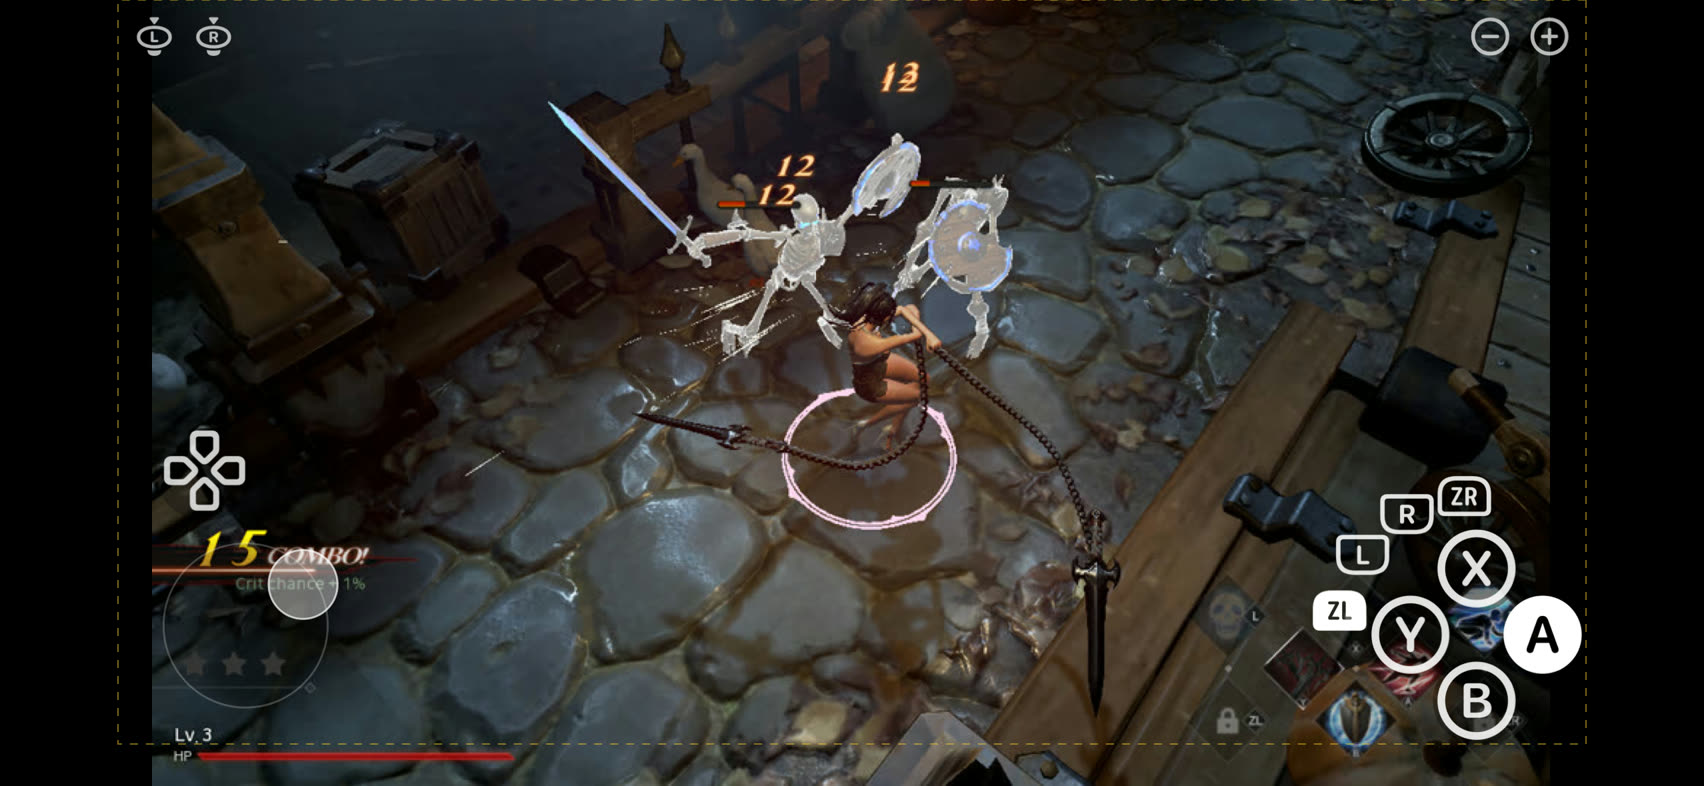
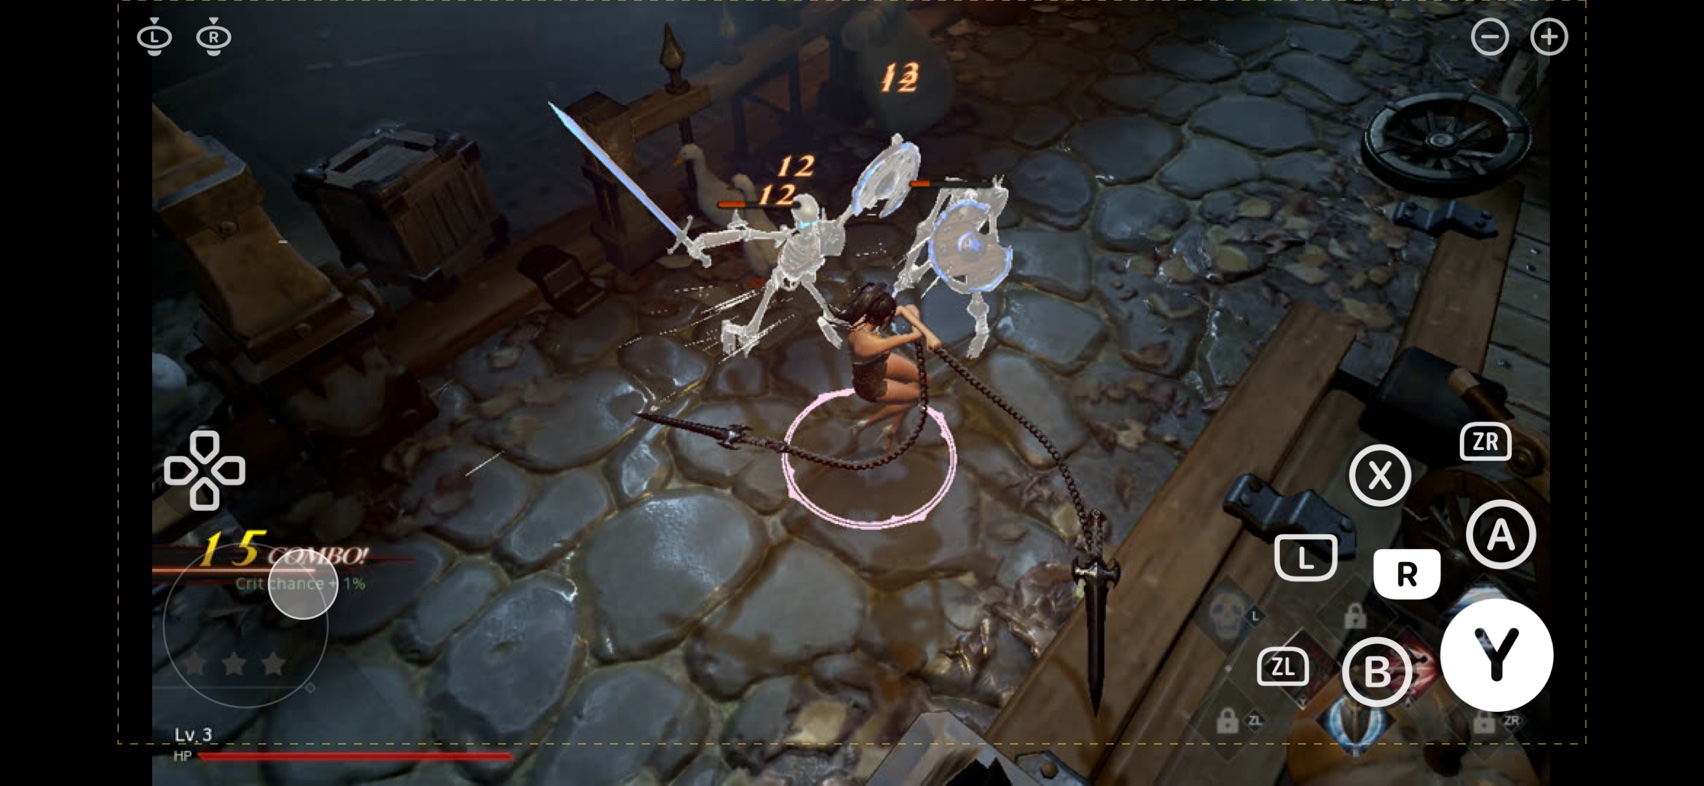
虚拟手柄图层第 3 稿：按真机确认的用法改成手游扇形布局
Y 普攻大键贴右下角（直径 66 点），B 格挡 / R 闪避 / A 技能内扇，L 终结技 / X 外扇，ZL ZR 最小在两端；
键间留 ≥ 0.3r 的真实间隙、命中圈不重叠（第 2 稿菱形相邻键边缘只差 1 点）。效果图工具打印每键与最近邻的边缘 / 命中圈间隙。
docs/ios_pad.md 与 README 同步更新，效果图重出。iOS 未签名包编译通过。

Claude-Session: https://claude.ai/code/session_01DDDgrjNGDwfa5NRsJqi9pz

Changed region(s): [[0.7154, 0.5191, 0.9331, 0.9466]]

diff --git a/dm/ios/blade/Sources/pad_layout.h b/dm/ios/blade/Sources/pad_layout.h
@@ -5,13 +5,14 @@
 // 没有图标时退回画字。坐标系：原点左上、y 向下（UIKit drawRect 的上下文即如此；效果图工具自己翻转位图上下文）。
 //
 // 布局依据（BladeII/Config/DefaultInput.ini）：游戏把全部手柄键都映射成动作（面键 4、肩键 L/R、扳机 ZL/ZR、十字键 4、＋ −、L3 R3），
-// 左摇杆走移动轴（死区 0.25），右摇杆只在背包里旋转角色（InvenRotateMove）。战斗 HUD 右下角 4 个技能格的键提示是 L / ZL / R / ZR，所以：
-//   · 右下：A/B/X/Y 菱形（Switch 排法：X 上 Y 左 A 右 B 下；主攻击 / 闪避区，最大）；外圈 4 个技能键按 ZL L R ZR 从左到上排成弧，都在右手拇指转动半径内；
+// 左摇杆走移动轴（死区 0.25），右摇杆只在背包里旋转角色（InvenRotateMove）。战斗 HUD 右下 7 个格的键提示：上排 L / X / R，下排 ZL / Y / A / B / ZR，
+// 实际用法（作者真机确认）：Y 普攻（最常用）、B 格挡（第二常用，精确防御后反击）、A 技能、L 终结技、R 闪避，ZL ZR 基本不用。所以按手游的做法：
+//   · 右下：Y 一个普攻大键贴角；其余键按频率呈扇形围着它——内扇 B R A、外扇 L X 中段、ZL ZR 两端最小；键与键之间留实打实的间隙（≥ 0.3r ≈ 7 点），命中圈互不重叠；
 //   · 左半屏：浮动左摇杆（落点为中心），空闲时左下只画一个淡的摇杆图标提示；十字键一个图标放左侧中部、摇杆区之上；
 //   · 顶边：左上 L3 R3（极少用，最小最淡），右上 − ＋；
 //   · 右半屏空处 = 右摇杆（只有背包用，不画空闲提示）。
-// 画面是 16:9 居中留黑边（nvn_mtl.m 的出图视口），iPhone 19.5:9 两侧各有约 H×0.09 的黑柱，摇杆提示与菱形的外沿落在黑柱里，少盖 HUD。
-// 尺寸以窗口高为基准：r = H×0.058（夹在 17–32 点，DM_PAD_SCALE 再乘），iPhone 横屏 393 点高 → 面键直径 46 点（≥ 44 点可点最小值），技能键 33 点。
+// 画面是 16:9 居中留黑边（nvn_mtl.m 的出图视口），iPhone 19.5:9 两侧各有约 H×0.09 的黑柱，摇杆提示与右手簇的外沿落在黑柱里，少盖 HUD。
+// 尺寸以窗口高为基准：r = H×0.058（夹在 17–32 点，DM_PAD_SCALE 再乘），iPhone 横屏 393 点高 → Y 直径 66 点、B R A 41 点（命中 50 点）、L 39 点、X 36 点、ZL ZR 32 点。
 //
 // Touch gamepad layer for Blade II: geometry (where, how big, hit testing) and drawing (CoreGraphics), plain C with no UIKit dependency,
 // so the iOS shell (overlay in front_blade.m) and the Mac mock-up tool (tools/pad_mockup.m) share one copy -- what the mock-up shows is what the device draws.
@@ -21,12 +22,13 @@
 //
 // Layout rationale (BladeII/Config/DefaultInput.ini): the game maps every controller button to an action (4 face, L/R, ZL/ZR, 4 d-pad, + -, L3 R3),
 // the left stick drives the move axes (dead zone 0.25) and the right stick is only used to rotate the character in the inventory (InvenRotateMove).
-// The combat HUD's four skill slots bottom right are labelled L / ZL / R / ZR, hence:
-//   - bottom right: A/B/X/Y diamond (Switch order: X top, Y left, A right, B bottom; attack / dodge, largest); an outer arc of the 4 skill keys ZL L R ZR from left to top;
+// The combat HUD's seven slots bottom right are labelled L / X / R (top row) and ZL / Y / A / B / ZR (bottom row): Y is the whip strike (primary attack), A the dash (dodge),
+// Actual use (confirmed by the author on hardware): Y basic attack (most used), B block (second, perfect guard then counter), A skill, L finisher, R dodge, ZL ZR hardly ever. Hence, the mobile-game way:
+//   - bottom right: one big basic-attack key Y in the corner; the rest fanned around it by frequency -- inner fan B R A, outer fan L X mid-arc, ZL ZR smallest at the ends; real gaps between keys (>= 0.3r ~ 7 pt), hit circles never overlap;
 //   - left half: floating left stick (landing point = centre), idle = one faint joystick glyph bottom left; one d-pad glyph mid-left above the stick zone;
 //   - top edge: L3 R3 top left (rarely used, smallest and faintest), - + top right;
 //   - free space in the right half = right stick (inventory only, no idle hint).
-// Sizes are relative to the window height: r = H*0.058 (clamped 17-32 pt, times DM_PAD_SCALE); 393 pt landscape iPhone -> 46 pt face buttons (>= 44 pt minimum), 33 pt skill keys.
+// Sizes are relative to the window height: r = H*0.058 (clamped 17-32 pt, times DM_PAD_SCALE); 393 pt landscape iPhone -> Y 66 pt, B R A 41 pt (50 pt hit), L 39 pt, X 36 pt, ZL ZR 32 pt.
 #pragma once
 #include <CoreGraphics/CoreGraphics.h>
 #include <CoreText/CoreText.h>
@@ -69,14 +71,24 @@ static inline void pad_layout_make(pad_layout *L, CGSize sz, CGFloat in_top, CGF
     CGFloat H = sz.height, W = sz.width, r = fmin(32, fmax(17, H * 0.058)) * (scale > 0 ? scale : 1);
     CGFloat bot = H - in_bottom, top = in_top, left = in_left, right = W - in_right;
     L->size = sz; L->pic = pad_picture_rect(sz); L->r = r; L->stick_r = 1.8 * r; L->split_x = W * 0.45;
-    // 菱形：中心离右下安全角 2.4r；键距 1.45r；命中 1.1r | diamond: centre 2.4r from the bottom-right safe corner; pitch 1.45r; hit 1.1r
-    CGPoint d = CGPointMake(right - 2.4 * r, bot - 2.4 * r);
-    L->btn[PB_A] = pad_c(d.x + 1.45 * r, d.y, r, 1.1 * r); L->btn[PB_B] = pad_c(d.x, d.y + 1.45 * r, r, 1.1 * r);
-    L->btn[PB_Y] = pad_c(d.x - 1.45 * r, d.y, r, 1.1 * r); L->btn[PB_X] = pad_c(d.x, d.y - 1.45 * r, r, 1.1 * r);
-    // 技能弧：绕菱形中心半径 3.05r，190°→265°（y 向下：190° 偏左略下，265° 正上略右），顺序 ZL L R ZR；键帽半宽 0.72r，命中 0.92r
-    // skill arc: radius 3.05r around the diamond centre, 190 -> 265 degrees (y down), order ZL L R ZR; cap half-width 0.72r, hit 0.92r
-    static const int arc_btn[4] = {PB_ZL, PB_L, PB_R, PB_ZR}; static const double arc_deg[4] = {190, 215, 240, 265};
-    for (int i = 0; i < 4; i++) { double a = arc_deg[i] * M_PI / 180; L->btn[arc_btn[i]] = pad_c(d.x + 3.05 * r * cos(a), d.y + 3.05 * r * sin(a), 0.72 * r, 0.92 * r); }
+    // 右手簇（手游打法：一个主攻击大键，其余按使用频率呈扇形围在它旁边）：
+    //   Y 普攻：半径 1.45r，贴右下安全角（边距 0.5r）；
+    //   内扇 B R A：半径 0.9r，离 Y 中心 D1（与 Y 边缘留 0.3r），172°（正左，拇指平移最顺手）= B 格挡（第二常用）、222°（左上）= R 闪避、272°（正上）= A 技能；
+    //   外扇 ZL L X ZR：离 Y 中心 D2（与内扇边缘留 0.3r），177° = ZL（0.7r，少用）、207° = L 终结技（0.85r）、237° = X（0.8r）、267° = ZR（0.7r，少用）；与内扇错开成蜂窝。
+    //   命中圈 = 画的半径 + 0.2r，相邻命中圈不重叠；pad_hit 取最近者。
+    // right-hand cluster (mobile-game logic: one big primary attack key, the rest fanned around it by frequency of use):
+    //   Y basic attack: radius 1.45r, tucked into the bottom-right safe corner (0.5r margin);
+    //   inner fan B R A: radius 0.9r, D1 from Y's centre (0.3r clear of Y's edge): 172 deg (straight left, the easiest thumb slide) = B block (second most used), 222 deg (up-left) = R dodge, 272 deg (straight up) = A skill;
+    //   outer fan ZL L X ZR: D2 from Y's centre (0.3r clear of the inner fan): 177 deg = ZL (0.7r, rare), 207 deg = L finisher (0.85r), 237 deg = X (0.8r), 267 deg = ZR (0.7r, rare); staggered against the inner fan, honeycomb style.
+    //   hit radius = drawn radius + 0.2r; neighbouring hit circles do not overlap; pad_hit takes the nearest.
+    CGFloat R0 = 1.45 * r, R1 = 0.9 * r, R2 = 0.85 * r, R2x = 0.8 * r, R2s = 0.7 * r, gap = 0.3 * r;
+    CGPoint y0 = CGPointMake(right - (R0 + 0.5 * r), bot - (R0 + 0.5 * r));
+    L->btn[PB_Y] = pad_c(y0.x, y0.y, R0, R0 + 0.1 * r);
+    CGFloat D1 = R0 + gap + R1, D2 = D1 + R1 + gap + R2;
+    static const int in_btn[3] = {PB_B, PB_R, PB_A}; static const double in_deg[3] = {172, 222, 272};
+    for (int i = 0; i < 3; i++) { double a = in_deg[i] * M_PI / 180; L->btn[in_btn[i]] = pad_c(y0.x + D1 * cos(a), y0.y + D1 * sin(a), R1, R1 + 0.15 * r); }
+    static const int out_btn[4] = {PB_ZL, PB_L, PB_X, PB_ZR}; static const double out_deg[4] = {177, 207, 237, 267}; const CGFloat out_rad[4] = {R2s, R2, R2x, R2s};
+    for (int i = 0; i < 4; i++) { double a = out_deg[i] * M_PI / 180; CGFloat rr = out_rad[i]; L->btn[out_btn[i]] = pad_c(y0.x + D2 * cos(a), y0.y + D2 * sin(a), rr, rr + 0.2 * r); }
     // 顶边：右上 − ＋，左上 L3 R3 | top edge: - + top right, L3 R3 top left
     L->btn[PB_PLUS] = pad_c(right - 0.8 * r, top + 0.8 * r, 0.5 * r, 0.75 * r); L->btn[PB_MINUS] = pad_c(right - 2.1 * r, top + 0.8 * r, 0.5 * r, 0.75 * r);
     L->btn[PB_LS] = pad_c(left + 0.8 * r, top + 0.8 * r, 0.5 * r, 0.75 * r); L->btn[PB_RS] = pad_c(left + 2.1 * r, top + 0.8 * r, 0.5 * r, 0.75 * r);

diff --git a/tools/pad_mockup.m b/tools/pad_mockup.m
@@ -55,7 +55,10 @@ int main(int argc, char **argv) {
         NSBitmapImageRep *rep = [[NSBitmapImageRep alloc] initWithCGImage:out]; NSData *png = [rep representationUsingType:NSBitmapImageFileTypePNG properties:@{}];
         if (![png writeToFile:@(argv[2]) atomically:YES]) { fprintf(stderr, "写不了 %s\n", argv[2]); return 1; }
         printf("%s：%zux%zu 像素，基准半径 %.1f 点，画面 %.0f,%.0f %.0fx%.0f，摇杆满偏 %.0f 点，分界 x=%.0f\n", argv[2], pw, ph, L.r, L.pic.origin.x, L.pic.origin.y, L.pic.size.width, L.pic.size.height, L.stick_r, L.split_x);
-        for (int i = 0; i < PB_N; i++) printf("  %-3s 中心 %6.1f,%6.1f 半径 %4.1f 命中 %4.1f\n", k_label[i], L.btn[i].c.x, L.btn[i].c.y, L.btn[i].r, L.btn[i].hit);
+        for (int i = 0; i < PB_N; i++) {   // 每个键：中心、半径、命中半径、与最近邻的边缘间隙 / 命中圈间隙（负 = 重叠） | per key: centre, radius, hit radius, edge gap / hit-circle gap to the nearest neighbour (negative = overlap)
+            int nb = -1; double eg = 1e9, hg = 1e9;
+            for (int j = 0; j < PB_N; j++) if (j != i) { double d = hypot(L.btn[j].c.x - L.btn[i].c.x, L.btn[j].c.y - L.btn[i].c.y), e = d - L.btn[i].r - L.btn[j].r; if (e < eg) { eg = e; hg = d - L.btn[i].hit - L.btn[j].hit; nb = j; } }
+            printf("  %-3s 中心 %6.1f,%6.1f 半径 %4.1f 命中 %4.1f  最近 %-3s 边缘间隙 %5.1f 命中圈间隙 %5.1f\n", k_label[i], L.btn[i].c.x, L.btn[i].c.y, L.btn[i].r, L.btn[i].hit, nb >= 0 ? k_label[nb] : "-", eg, hg); }
         CGImageRelease(out); CGContextRelease(g); CGColorSpaceRelease(cs);
     }
     return 0;

diff --git a/docs/ios_pad.md b/docs/ios_pad.md
@@ -1,4 +1,4 @@
-# iOS 触摸虚拟手柄图层（设计，2026-10-18，第 2 稿：缩小 + 系统手柄图标）
+# iOS 触摸虚拟手柄图层（设计，2026-10-18，第 3 稿：按实际用法的扇形布局）
 
 代码：`dm/ios/blade/Sources/pad_layout.h`（几何 + 绘制，纯 C / CoreGraphics；键帽是系统 SF Symbols 的手柄图标 `a.circle` / `zl.button.roundedtop.horizontal` / `dpad` / `l.joystick`…，正是 Switch 的键形，由宿主按名提供位图、这里染白摆放，按下换 `.fill` 实心变体）、`dm/ios/blade/Sources/front_blade.m`（触点归类、淡出、震感）、`tools/pad_mockup.m`（Mac 上出效果图，用的是同一份几何与绘制代码）。
 
@@ -6,28 +6,32 @@
 
 | | |
 |---|---|
-| ![15 Pro 按着](screenshots/ios_pad_15pro.jpg) iPhone 15 Pro 横屏 852×393 点，安全区 左右 59 / 下 21（黄虚线）；左摇杆推右上、A 与 ZL 按下 | ![15 Pro 空闲](screenshots/ios_pad_15pro_idle.jpg) 同机型，松手 2.5 s 后的空闲态（整层透明度 0.45） |
-| ![SE](screenshots/ios_pad_se.jpg) iPhone SE 级 667×375 点、无安全区、16:9 铺满；B 与十字键下按下 | |
+| ![15 Pro 按着](screenshots/ios_pad_15pro.jpg) iPhone 15 Pro 横屏 852×393 点，安全区 左右 59 / 下 21（黄虚线）；左摇杆推右上、Y 与 R 按下 | ![15 Pro 空闲](screenshots/ios_pad_15pro_idle.jpg) 同机型，松手 2.5 s 后的空闲态（整层透明度 0.45） |
+| ![SE](screenshots/ios_pad_se.jpg) iPhone SE 级 667×375 点、无安全区、16:9 铺满；B 按下 | |
 
 ## 依据
 
 - 游戏的输入映射（pak 里的 `BladeII/Config/DefaultInput.ini`）：全部手柄键都映射成动作——面键 4、L/R、ZL/ZR、十字键 4、＋/−、L3/R3；左摇杆是移动轴（轴死区 0.25），右摇杆只在背包里转角色（`InvenRotateMove`）。
-- 战斗 HUD 右下 4 个技能格的键提示是 L / ZL / R / ZR，面键菱形是主攻击 / 闪避区。
+- 战斗 HUD 右下 7 个格的键提示：上排 L / X / R，下排 ZL / Y / A / B / ZR。作者真机确认的用法：**Y 普攻（最常用）、B 格挡（第二常用，精确防御后反击）、A 技能、L 终结技、R 闪避**，ZL / ZR 基本不用，十字键对应摇杆方向。
+- 手游的通行做法：一个普攻大键贴角，其余键按使用频率呈扇形围在它旁边，键与键之间留真实间隙。第 2 稿的菱形键距 1.45r 而键半径 r，相邻键边缘只差 1 点、命中圈互相重叠，这是"大小和间隙不对"的根源。
 - 出图是 16:9 居中留黑边（`nvn_mtl.m` 出图视口），iPhone 19.5:9 两侧各有约 0.09 H 的黑柱。
 
 ## 布局
 
-尺寸基准 `r = H × 0.058`，夹在 17–32 点（iPhone 横屏 393 点高 → 22.8 点，面键直径 46 点 ≥ 44 点可点最小值，技能键帽宽 34 点）。全部相对安全区。第 1 稿是 0.075 H 的粗白圈 + 字母，被否（太大、太丑）。
+尺寸基准 `r = H × 0.058`，夹在 17–32 点（iPhone 横屏 393 点高 → 22.8 点）。全部相对安全区。第 1 稿 0.075 H 粗白圈 + 字母被否（太大太丑）；第 2 稿缩小 + 图标但仍是 Switch 菱形、键贴键，被否（没按实际用法、大小间隙不对）。
 
-| 控件 | 位置 | 半径 / 命中 |
+| 控件 | 位置 | 半径 / 命中（15 Pro 直径） |
 |---|---|---|
-| A / B / X / Y 菱形（Switch 排法：X 上 Y 左 A 右 B 下） | 中心离右下安全角 (2.4r, 2.4r)，键距 1.45r；深色圆底 + `x.circle` 等圆标 | r / 1.1r |
-| ZL L R ZR 技能弧 | 绕菱形中心半径 3.05r，190° → 265°（从左到上），都在右拇指转动半径内；键帽形深色圆角底 + `zl.button.roundedtop.horizontal` 等键帽 | 0.72r / 0.92r |
+| **Y 普攻** | 贴右下安全角，边距 0.5r；深色圆底 + `y.circle` | 1.45r / 1.55r（66 点） |
+| 内扇 **B 格挡 / R 闪避 / A 技能** | 绕 Y 中心 D1 = 2.65r（与 Y 边缘留 0.3r ≈ 7 点），172°（正左，拇指平移最顺手）/ 222° / 272° | 0.9r / 1.05r（41 点，命中 48 点） |
+| 外扇 ZL / **L 终结技** / X / ZR | 绕 Y 中心 D2 = 4.7r（与内扇留 0.3r），177° / 207° / 237° / 267°，与内扇错开成蜂窝；L R 键帽形圆角底 | ZL ZR 0.7r，L 0.85r，X 0.8r（32 / 39 / 36 点） |
 | − ＋ | 右上角，`minus.circle` / `plus.circle`，无底 | 0.5r / 0.75r |
-| L3 R3 | 左上角（极少用，最小最淡），`l.joystick.press.down` / `r.joystick.press.down` | 0.5r / 0.75r |
-| 十字键 | 左侧中部、摇杆区之上（矮屏自动让开 L3 R3）：一个 `dpad` 图标（边长 2.2r）+ 深色圆底，按下画 `dpad.<向>.filled`；命中仍按四个方向分 | 0.5r / 0.625r |
-| 左摇杆 | 左 45% 屏空处浮动，落点为中心，满偏 1.8r（底盘黑 0.18 + 1 点细圈，滑块 0.42 满偏半径）；空闲时左下 (2.2r, 2.2r) 只画一个淡的 `l.joystick` 图标 | 8% 死区（游戏自己还有 0.25） |
+| L3 R3 | 左上角（极少用，最小最淡） | 0.5r / 0.75r |
+| 十字键 | 左侧中部、摇杆区之上（矮屏自动让开 L3 R3）：一个 `dpad` 图标 + 深色圆底，按下画 `dpad.<向>.filled`；命中按四向分 | 0.5r / 0.625r |
+| 左摇杆 | 左 45% 屏空处浮动，落点为中心，满偏 1.8r；空闲时左下 (2.2r, 2.2r) 只画一个淡的 `l.joystick` 图标 | 8% 死区（游戏自己还有 0.25） |
 | 右摇杆 | 右 55% 屏空处（背包转角色），不画空闲圈 | 同上 |
+
+效果图工具每次都打印每个键与最近邻的**边缘间隙**和**命中圈间隙**（负数 = 重叠）：第 3 稿右手簇边缘间隙最小 6.8 点（Y 与内扇）、其余 11–13 点，命中圈全部不重叠；十字键四向是故意叠成一个图标的，命中取最近者。
 
 ## 行为
 
@@ -38,11 +42,11 @@
 
 ## 改布局的流程
 
-改 `pad_layout.h`（图标名在 `k_glyph`，可换成任意 SF Symbols）→ `clang -fobjc-arc -framework AppKit -framework CoreText -I dm/host -I dm/ios/blade/Sources tools/pad_mockup.m -o /tmp/pad_mockup` → `/tmp/pad_mockup docs/screenshots/03_skeletons.jpg out.png 852 393 0 59 21 59 3 A,ZL 0.7,0.5 1` 看图（工具还会打印每个键的中心 / 半径 / 命中半径）→ 真机 `dm/ios/blade/run.sh build && install && launch`。
+改 `pad_layout.h`（图标名在 `k_glyph`，可换成任意 SF Symbols）→ `clang -fobjc-arc -framework AppKit -framework CoreText -I dm/host -I dm/ios/blade/Sources tools/pad_mockup.m -o /tmp/pad_mockup` → `/tmp/pad_mockup docs/screenshots/03_skeletons.jpg out.png 852 393 0 59 21 59 3 Y,R 0.7,0.5 1` 看图（工具还会打印每个键的中心 / 半径 / 命中半径 / 与最近邻的间隙）→ 真机 `dm/ios/blade/run.sh build && install && launch`。
 
 ## 真机上要验的
 
 1. 启动日志 `虚拟手柄：窗口 … 安全区 …` 一行的数值与机型相符（横屏左右 59、下 21）。
-2. 拇指盲按菱形与技能弧不误触、不漏触；摇杆落点区与十字键不打架；图标在真机上的清晰度（3x 位图，渲染字号 64）。
+2. 右手拇指停在 Y 上，盲按 B / R / A / L 不误触、不漏触，Y→B 的平移格挡手法顺手；摇杆落点区与十字键不打架；图标在真机上的清晰度（3x 位图，渲染字号 64）。
 3. 空闲淡出不遮 HUD；背包里右半屏滑动能转角色。
 4. 整层 `drawRect` 的重绘开销（每次触点变化重画一次 Core Graphics）对帧时间的影响——如可见，改成 CALayer 分层只动变化的键。

diff --git a/README.md b/README.md
@@ -191,7 +191,7 @@ DM_OUT=$O dm/ios/blade/run.sh build && dm/ios/blade/run.sh install && dm/ios/bla
    - **iphoneos 着色器库**：`dmsh_build.py` 的 `IOSOUT` 路径现在也出融合变体 `<顶点键>+<几何键>_b`（含 `-fpreserve-invariance`）并进内容缓存；301 个库 + 6 个融合变体 + 40 个采样变体。
    - **实体手柄**（`dm/host/gamepad_generic.m`，Mac 与 iOS 共用，GameController.framework，热插拔）：面键按位置排——下→B、右→A、左→Y、上→X（游戏画的是 Switch 键帽提示；`DM_PAD_FACE=letter` 改按字母），L/R、ZL/ZR、L3/R3、菜单→＋、选项→−、十字键；摇杆径向死区 12%（`DM_PAD_DEADZONE`）。Mac 上与键盘并存（`front_mac.m` 原有的 `dm_gamepad_start` 调用，不再是 `blade_stubs.c` 的空实现）。没有实体手柄实测，只验证了启动枚举（日志「手柄：GameController 启动，系统当前列出 N 个」）。
    - **iOS 音频会话**（`dm/host/audio_session.m`，`hle_blade.c` 建 RemoteIO 前调）：Playback 类别、不与别的 App 混音；打断开始 / 结束与进后台 / 回前台合成一个开关停 / 起渲染器的声卡单元（`dm_audren_suspend`，停着时节拍线程照实时静音消耗）；线路变化只记日志。音频渲染器缺省改成与 `hle_audio.c` 同口径：iOS 真出声、Mac 静音（`DM_AUDIO` 仍可覆盖）。没在真机上验证。
-   - **触摸虚拟手柄图层**（2026-10-18 设计稿，见 [docs/ios_pad.md](docs/ios_pad.md) 与效果图）：几何与绘制在 `Sources/pad_layout.h`（纯 C），Mac 上 `tools/pad_mockup.m` 用同一份代码把图层画在游戏截图上出效果图，不用真机就能调布局。布局依据 pak 里的 `DefaultInput.ini`（全部手柄键都有动作映射，右摇杆只在背包里用）与 HUD 的 L / ZL / R / ZR 技能提示：右下 A/B/X/Y 菱形 + 外圈技能弧，左半屏浮动摇杆 + 十字键，顶边 L3 R3 / − ＋；松手 2.5 s 淡出，按键有震感，实体手柄接上自动隐藏。
+   - **触摸虚拟手柄图层**（2026-10-18 设计稿，见 [docs/ios_pad.md](docs/ios_pad.md) 与效果图）：几何与绘制在 `Sources/pad_layout.h`（纯 C），Mac 上 `tools/pad_mockup.m` 用同一份代码把图层画在游戏截图上出效果图，不用真机就能调布局。布局按真机确认的实际用法（Y 普攻最常用、B 格挡、A 技能、L 终结技、R 闪避，ZL ZR 基本不用）走手游的路子：右下一个 Y 普攻大键贴角，其余键按频率呈扇形围着它（内扇 B R A、外扇 L X，ZL ZR 最小在两端），键间留真实间隙、命中圈不重叠；左半屏浮动摇杆 + 十字键，顶边 L3 R3 / − ＋；键帽是系统的 Switch 手柄图标；松手 2.5 s 淡出，按键有震感，实体手柄接上自动隐藏。
    - 还没做：真机上跑（发热 / 内存上限读数、图层重绘开销）、触摸屏（游戏只认手柄，没接 `dm_touch_set`）。
 5. **验证工具**：`structck.py` / `equiv.py` 认识 `JA` 行、负偏移补丁区与新改写块。
 
